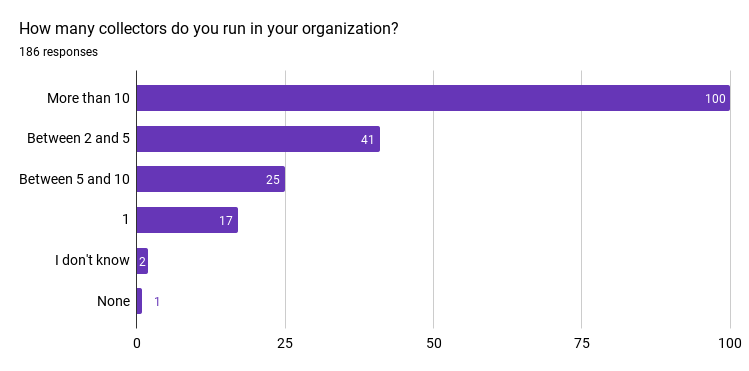
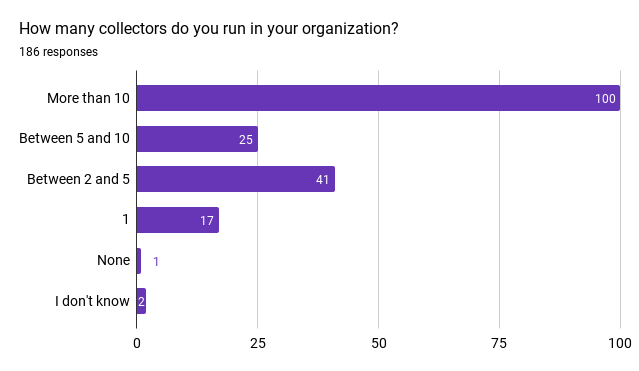
incorporate comments

diff --git a/content/en/blog/2024/otel-collector-survey/index.md b/content/en/blog/2024/otel-collector-survey/index.md
@@ -6,7 +6,7 @@ author: '[Hope Oluwalolope](https://github.com/iamebonyhope) (Microsoft)'
 cSpell:ignore: Oluwalolope distros Servicegraph Pprof
 ---
 
-The [OpenTelemetry (OTel) Collector](https://opentelemetry.io/docs/collector/) has become a cornerstone tool for observing and monitoring modern software applications. Recently, the End User SIG conducted a survey to gather feedback from users about their experiences with the OTel Collector. We are excited to share valuable insights based on the 186 responses we received from the community, including details about users’ deployment practices and implementation challenges, to help drive its future direction.
+The [OpenTelemetry (OTel) Collector](https://opentelemetry.io/docs/collector/) has become a cornerstone tool for observing and monitoring modern software applications. Recently, the End User SIG conducted a survey to gather feedback from users about their experiences with the OTel Collector. While we acknowledge that the 186 responses we received may not be statistically significant, they represent a great start and provide valuable insights. These insights include details about users’ deployment practices and implementation challenges, which are instrumental in helping to drive the OTel Collector’s future direction.
 
 ## Key Takeaways
 - Companies typically have medium to large collector deployments:
@@ -19,7 +19,7 @@ The [OpenTelemetry (OTel) Collector](https://opentelemetry.io/docs/collector/) h
 ## Detailed Insights
 
 ### Deployment Scale and Environment
-Our findings indicate robust use of the OTel Collector at scale, with 53.8%(100/186) of respondents deploying more than 10 collectors, and  22%(41/186) of respondents running between 2 and 5 collectors
+Our findings indicate robust use of the OTel Collector at scale, with 53.8%(100/186) of respondents deploying more than 10 collectors, 13.4%(25/186) running between 5 and 10 collectors, and 22%(41/186) running between 2 and 5 collectors.
 
 ![Chart showing how many otel collectors people run in their organization](deployment-scale.png)
 
@@ -38,7 +38,7 @@ A surprising number of people build their own distributions of the Collector (61
 ![Chart showing how easy people find it to use the otel collector builder](ocb-usage.png)
 
 ### Monitoring and Observability
-When it comes to monitoring the Collectors, a vast majority of respondents rely on Collector metrics and logs (70%), and only a few don't monitor their Collector(s) at all (16%). When we peered deeper into the data, we found that of the 125 respondents with more than 5 Collectors, only 15 are not monitoring their Collectors, and of the 100 respondents with more than 10 Collectors, only 9 are not monitoring their Collectors. This seems to indicate that users take monitoring their Collectors seriously once they reach a certain maturity with their Collector deployments.
+When it comes to monitoring the Collectors, a vast majority of respondents rely on Collector metrics and logs (81.7%), and only a few don't monitor their Collector(s) at all (16.6%). When we peered deeper into the data, we found that of the 125 respondents with more than 5 Collectors, only 15 are not monitoring their Collectors, and of the 100 respondents with more than 10 Collectors, only 9 are not monitoring their Collectors. This seems to indicate that users take monitoring their Collectors seriously once they reach a certain maturity with their Collector deployments.
 
 ![Chart showing how people monitor their otel collector](monitoring.png)
 
@@ -47,34 +47,42 @@ The OTel Collector's flexibility is vividly illustrated by the wide array of exp
 
 The top components according to our survey results are as follows:
 
-#### Receivers
-- OTLP Receiver
-- Prometheus Receiver
-- File Receiver
-
 #### Exporters
-- OTLP Exporter
-- Prometheus Exporter
+1. otlpexporter
+2. prometheusremotewriteexporter
+3. prometheusexporter
+4. lokiexporter
+5. debugexporter
+
+#### Receivers
+1. otlpreceiver
+2. prometheusreceiver
+3. filelogreceiver
+4. hostmetricsreceiver
+5. k8sclusterreceiver
 
 #### Processors
-- Batch Processor
-- Attributes Processor
-- Filter Processor
-- Memory Limiter Processor
-- K8s Attribute Processor
+1. batchprocessor
+2. attributesprocessor
+3. filterprocessor
+4. memorylimiterprocessor
+5. k8sattributesprocessor
 
 #### Connectors
-- Span Metrics Connector
-- Servicegraph Connector
-- Count Connector
-- Routing Connector
+1. spanmetricsconnector
+2. servicegraphconnector
+3. routingconnector
+4. countconnector
+5. datadogconnector
 
 #### Extensions
-- Health Check Extension
-- Basic Auth Extension
-- Pprof Extension
-- Bearer Token Auth Extension
-- Storage Extension
+1. healthcheckextension
+2. basicauthextension
+3. pprofextension
+4. bearertokenauthextension
+5. oauth2clientauthextension
+
+<br/>
 
 For a more detailed look at the specific exporters, receivers, processors, connectors, and extensions in use, you can check out the [raw results](https://github.com/open-telemetry/sig-end-user/blob/main/end-user-surveys/otel-collector/otel-collector-survey.csv). The data provides a clear view of the popular choices within the community as well as the niche configurations that exemplify the customizability of the OTel Collector.
 
